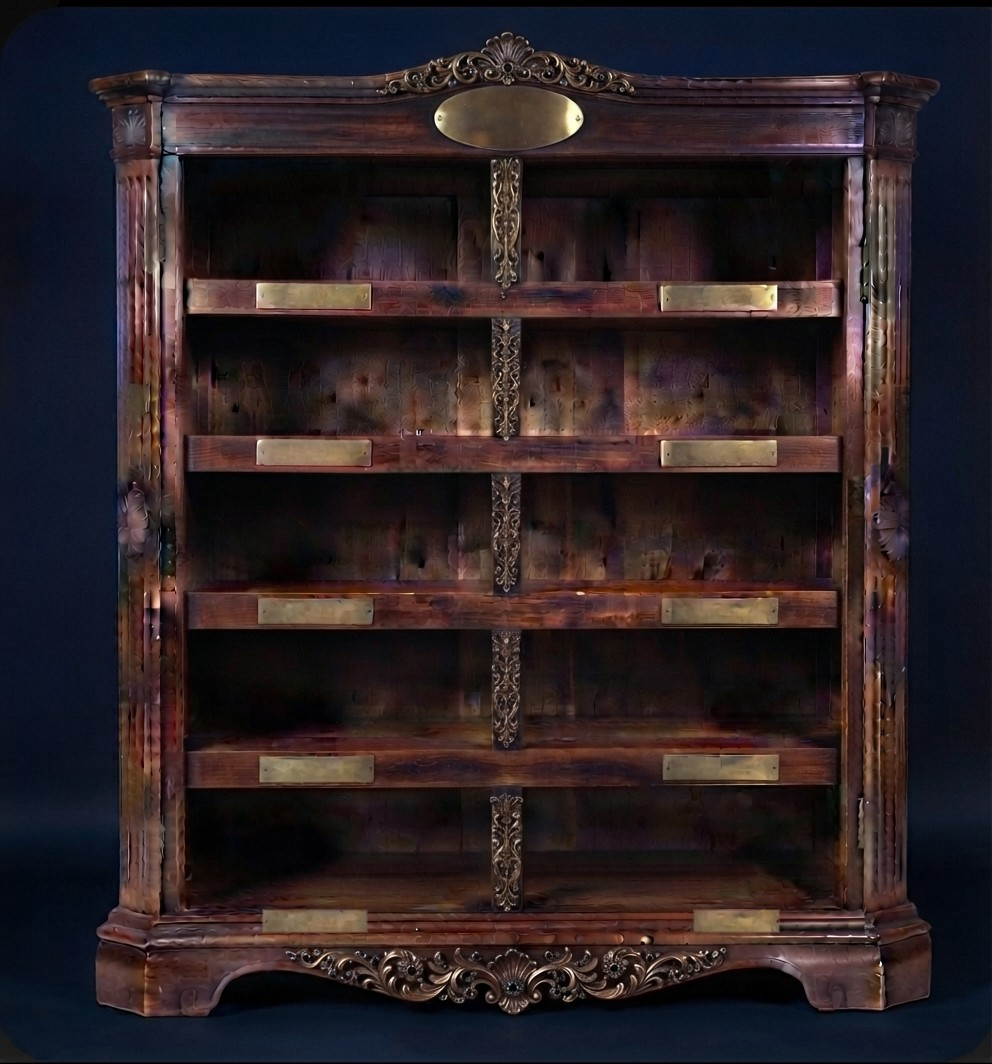
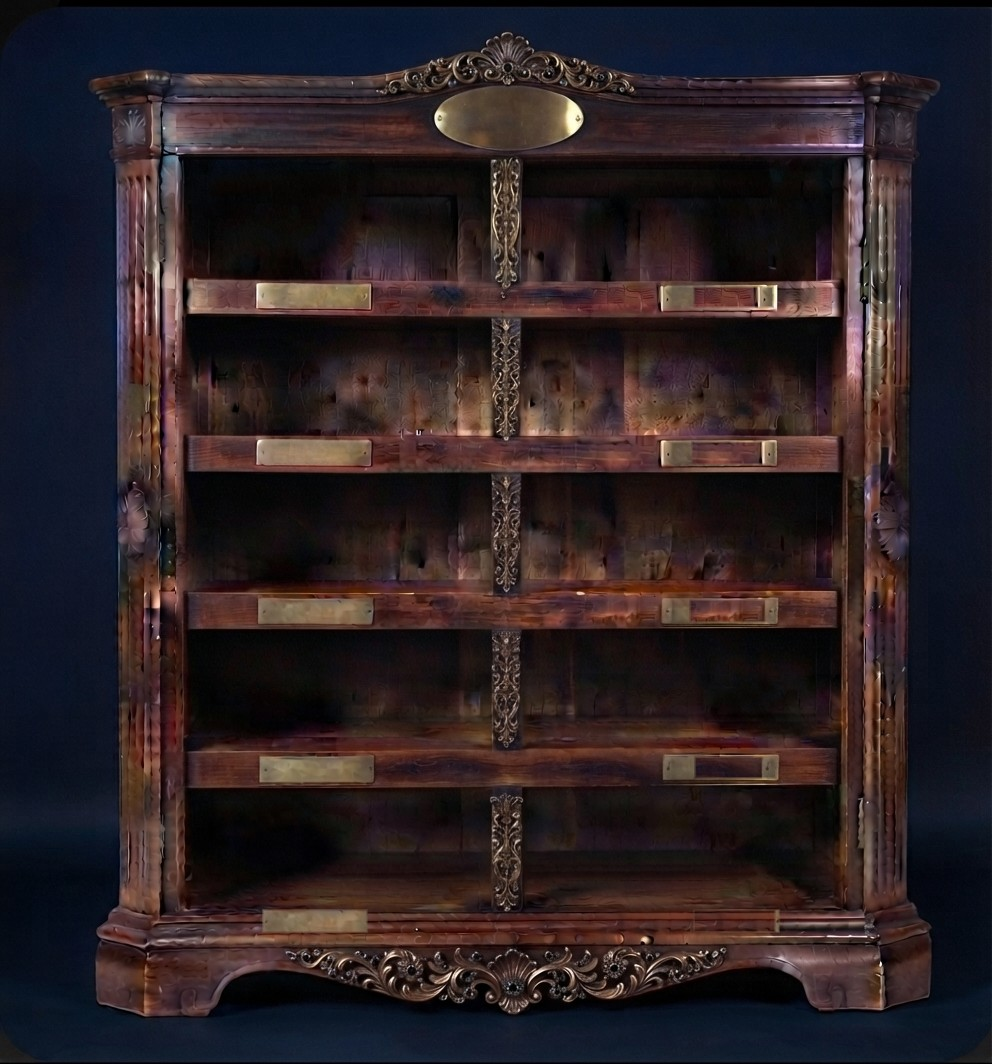
The shelf: one plate per shelf, and a first pass at zooming
Two changes, committed at a stopping point rather than as finished work.

One plate to a shelf, not two. Her call, and right. The right-hand plate
of each pair is painted out with clean board face taken from just left of
it -- same board, same height, so the same light falls on it and nothing
needed relighting.

And a first pass at her zoom idea, which is the answer to the phone: bring
a shelf out to the frame edges rather than shrinking the furniture until
the cards are 30px. Tapping a card zooms its shelf; tapping again opens the
piece, so one gesture does both jobs and nothing on a small screen is out
of reach.

It is NOT right yet and is left mid-flight:

  the zoom is only 1.427x, which is what it takes to bring the interior
  width out to the frame edges. It takes the cards from about 30px to 43px
  on a phone, which is not the step change the idea deserves.
  the piece names scale with the case, so zoomed in they are far too large
  and collide with the shelf above.
  dimming the other four shelves to a quarter makes the whole case murky.

She has since proposed a better shape for it -- first tap zooms the shelf,
second zooms the card, and clicking a zoomed card opens it -- and has added
a simpler shelf photograph without the frills or the oval, which may change
the geometry underneath all of this. Neither is started.

diff --git a/shelf.html b/shelf.html
@@ -12,14 +12,27 @@
   html,body{ height:100%; margin:0; background:#0a0910; color:#e2d6bb;
     font-family:'Cormorant Garamond', Georgia, serif; }
   body{ display:flex; align-items:center; justify-content:center; padding:2vh 2vw; }
+  /* the frame clips, so a zoomed-in shelf fills it instead of overflowing the page */
+  #frame{ position:relative; overflow:hidden; flex:none; border-radius:3px;
+    --h: min(95vh, calc(96vw * 1.0726), 1064px);
+    height:var(--h); width:calc(var(--h) / 1.0726); }
 
   /* the case, and everything on it placed as a percentage of it */
   /* The case must fit the viewport in BOTH directions. Sized by height alone it
      ran off the sides of a phone and the shelves were cut in half. 1064/992 is the
      case's own proportion, so this is the tallest it can be and still fit across. */
-  #case{ position:relative; flex:none; aspect-ratio:992/1064;
+  #case{ position:absolute; inset:0; aspect-ratio:992/1064;
     --h: min(95vh, calc(96vw * 1.0726), 1064px);
-    height:var(--h); --u: calc(var(--h) / 1064); }
+    height:var(--h); --u: calc(var(--h) / 1064);
+    transform-origin:50% 50%;
+    transition:transform .6s cubic-bezier(.22,.66,.24,1); }
+  /* zoomed to one shelf: 992/695 is exactly the factor that brings the interior
+     width out to the frame edges, so a shelf fills it and nothing is cropped */
+  #case.z1{ transform:translate(-3.8%, 41.6%) scale(1.427); }
+  #case.z2{ transform:translate(-3.8%, 20.9%) scale(1.427); }
+  #case.z3{ transform:translate(-3.8%,  0.1%) scale(1.427); }
+  #case.z4{ transform:translate(-3.8%,-20.8%) scale(1.427); }
+  #case.z5{ transform:translate(-3.8%,-41.9%) scale(1.427); }
   #case > img.wood{ width:100%; height:100%; display:block; }
 
   /* sagne, engraved into the brass oval at the crown */
@@ -99,10 +112,19 @@
     transition:opacity .25s ease; text-shadow:0 1px 4px #000; pointer-events:none; }
   .piece:hover{ transform:scale(1.14) translateY(calc(var(--u) * -4px)); z-index:5; }
   .piece:hover b{ opacity:1; }
+  #case.zoomed .piece.on b{ opacity:1; }
+  #case.zoomed .piece:not(.on){ opacity:.25; }
+  #back{ position:absolute; left:50%; bottom:2.5%; transform:translateX(-50%);
+    background:none; border:0; cursor:pointer; font:inherit; color:#cbbb92;
+    font-size:13px; letter-spacing:.2em; opacity:0; pointer-events:none;
+    transition:opacity .4s ease; text-shadow:0 1px 6px #000; z-index:20; }
+  #frame.zoomed #back{ opacity:.75; pointer-events:auto; }
+  #back:hover{ opacity:1; }
   .piece:focus-visible{ outline:2px solid #b8903f; outline-offset:2px; }
 </style>
 </head>
 <body>
+  <div id="frame">
   <div id="case">
     <img class="wood" src="shelves.jpg" alt="An apothecary shelf of five shelves">
     <span id="oval">sagne</span>
@@ -150,6 +172,8 @@
       <img src="chladni/chladni-card.png" alt=""><b>chladni</b></a>
     <span class="plate" id="p-phenomena">phenomena</span>
   </div>
+  <button type="button" id="back">back</button>
+  </div>
 <script>
 (function(){
   // Fit each engraved name to its own plate by MEASURING it rather than guessing a
@@ -176,6 +200,50 @@
     });
   }
   fit();
+
+  // Zoom to one shelf. On a phone the whole case has to shrink to fit across, which
+  // leaves the cards at about 30px -- her idea, and the right one: bring a shelf out
+  // to the frame edges instead of shrinking the furniture.
+  //
+  // The first tap on a card zooms its shelf; the second opens the piece. That way one
+  // gesture does both jobs and nothing on a small screen is out of reach.
+  var frame=document.getElementById('frame'), caseEl=document.getElementById('case');
+  var SHELF={};
+  ['instrumenta','tactilia','systema','natura','phenomena'].forEach(function(n,i){ SHELF[n]=i+1; });
+  var PIECES={ instrumenta:['candler','conometer','galileo','windower','storm'],
+               tactilia:['warmler','roller','kaleidoscope'],
+               systema:['musebox','gyre','chimes'],
+               natura:['birds','fireflies','ant'],
+               phenomena:['lamp','rain','bowl','pendulum','chladni'] };
+  var open=null;
+  function zoom(name){
+    if(open===name){ shut(); return; }
+    shut();
+    open=name;
+    caseEl.classList.add('zoomed','z'+SHELF[name]);
+    frame.classList.add('zoomed');
+    PIECES[name].forEach(function(s){ document.getElementById('c-'+s).classList.add('on'); });
+  }
+  function shut(){
+    if(!open) return;
+    caseEl.classList.remove('zoomed','z'+SHELF[open]);
+    frame.classList.remove('zoomed');
+    PIECES[open].forEach(function(s){ document.getElementById('c-'+s).classList.remove('on'); });
+    open=null;
+  }
+  Object.keys(PIECES).forEach(function(name){
+    PIECES[name].forEach(function(slug){
+      var a=document.getElementById('c-'+slug);
+      a.addEventListener('click', function(ev){
+        if(open!==name){ ev.preventDefault(); zoom(name); }
+      });
+    });
+    var pl=document.getElementById('p-'+name);
+    pl.style.pointerEvents='auto'; pl.style.cursor='pointer';
+    pl.addEventListener('click', function(){ zoom(name); });
+  });
+  document.getElementById('back').addEventListener('click', shut);
+  document.addEventListener('keydown', function(e){ if(e.key==='Escape') shut(); });
   if(document.fonts && document.fonts.ready) document.fonts.ready.then(fit);
   addEventListener('resize', fit);
 })();
